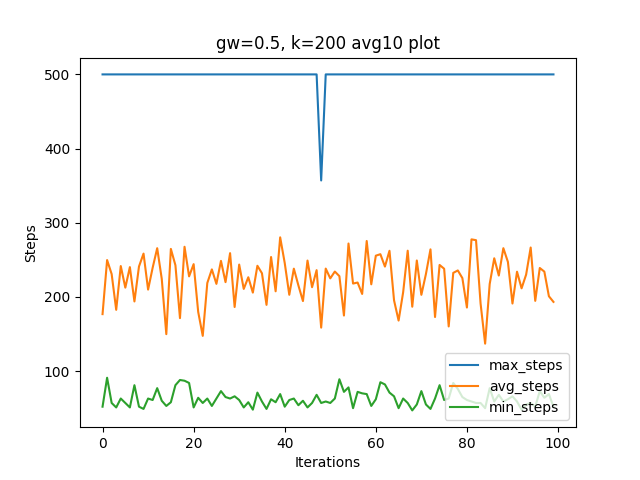
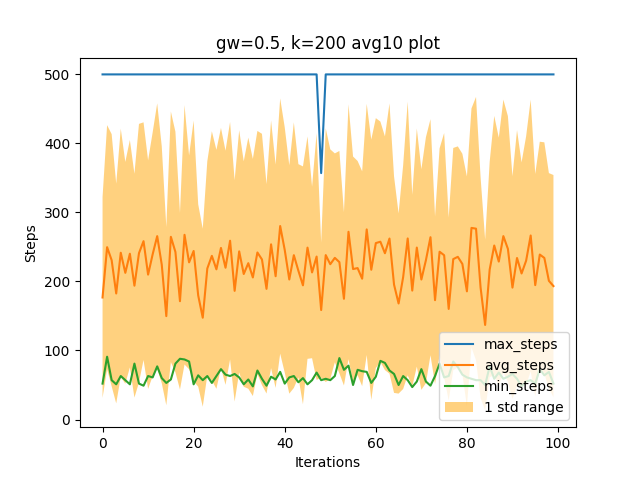
Found super300 results

diff --git a/genericClients/Mass_testing_client.py b/genericClients/Mass_testing_client.py
@@ -6,56 +6,40 @@ import helper.plotHelper as plotHelper
 import time
 import genericClients.kMeansClient as kMeansClient
 
-SEED_COUNT = 10
+SEED_COUNT = 30
 
 
-GAUSSIANS = [0.05, 0.1, 0.2, 0.3, 0.4, 0.5, 0.6, 0.8, 1]
+GAUSSIANS = [0.515, 0.535, 0.55, 0.565, 0.58]
+GAUSSIANS = [0.55]
 
-K_VALUES = [20, 35, 50, 70, 100, 150, 200]
+K_VALUES = [200, 250, 300, 350, 400]
+K_VALUES = [250]
 
 EXPLORATION_RATES = [0.1]
-#gw0.5-200
+
+
+
+RUN_KMEANS_UNWEIGHTED = True
+RUN_BASIC = True
+RUN_KMEANS_WEIGHTED = True
+RUN_KMEANS_VECTOR = False
+#gw0.55-250
 
 def run_program_with_different_seeds(plot_name, plot_title, seed_count=3,
                 discount_factor=kMeansClient.DISCOUNT_FACTOR, gaussian_width=kMeansClient.GAUSSIAN_WIDTH,
                 exploration_rate=kMeansClient.EXPLORATION_RATE, standard_episodes=kMeansClient.STANDARD_RUNNING_LENGTH,
-                kmeans_episodes=kMeansClient.KMEANS_RUNNING_LENGTH, kmeans_type=kMeansClient.KMEANS_TYPE, render_mode=kMeansClient.RENDER_MODE,
-                game_mode=kMeansClient.GAME_MODE, k=kMeansClient.K_MEANS_K, save_plot=True):
+                kmeans_episodes=kMeansClient.KMEANS_RUNNING_LENGTH, weighted_kmeans=True, render_mode=kMeansClient.RENDER_MODE,
+                game_mode=kMeansClient.GAME_MODE, k=kMeansClient.K_MEANS_K, save_plot=True, ignore_kmeans=False):
     datas = []
     for seed in range(seed_count):
         data = kMeansClient.run_program(seed=seed, discount_factor=discount_factor, gaussian_width=gaussian_width,
                 exploration_rate=exploration_rate, standard_episodes=standard_episodes,
-                kmeans_episodes=kmeans_episodes, kmeans_type=kmeans_type, render_mode=render_mode,
-                game_mode=game_mode, k=k, save_plot=False)
+                kmeans_episodes=kmeans_episodes, weighted_kmeans=weighted_kmeans, render_mode=render_mode,
+                game_mode=game_mode, k=k, save_plot=False, ignore_kmeans=ignore_kmeans)
         datas.append(data)
     datas = np.asarray(datas)
-    '''
-    bucket_data = plotHelper.average_every_n(datas, list_of_list=True, n=5)
-    avg_reward = plotHelper.average_of_diff_seeds(bucket_data)
-    error_bounds = plotHelper.get_upper_lower_error_bounds(bucket_data, avg_reward)
-    
-    
-    x = np.arange(0, len(data), 5)
-
-    #avg_reward = np.ones_like(avg_reward)*50
-    #error_bounds = [avg_reward - avg_reward*0.5, avg_reward*2 - avg_reward]
-
-    plt.errorbar(x, avg_reward, yerr=error_bounds, fmt='-o')
-    '''
-
-    avg_data, max_data, min_data = plotHelper.average_max_min_diagrams(datas)
-
-    plt.plot(max_data, label='max_steps')
-    plt.plot(avg_data, label='avg_steps')
-    plt.plot(min_data, label='min_steps')
-    plt.xlabel("Iterations")
-    plt.ylabel("Steps")
-    plt.legend(loc="lower right")
-    plt.title(plot_title)
-    plt.savefig(plot_name)
-    plt.show()
-    plt.clf()
-
+    plotHelper.plot_with_max_min_mean_std(datas, plot_name, plot_title)
+    return datas
 
 
 def run_gaussian_k():
@@ -64,20 +48,64 @@ def run_gaussian_k():
         start = time.time()
         for k in K_VALUES:
             start_2 = time.time()
+            labels = []
+            datas_list = []
+            if RUN_KMEANS_UNWEIGHTED:
+                path = f"mplots\\generic\\{kMeansClient.GAME_MODE}\\{gaussian_width}g\\{k}k"
+                fileHelper.createDirIfNotExist(path)
+                name = path + f"\\{SEED_COUNT}seed__{kMeansClient.STANDARD_RUNNING_LENGTH}_then_{kMeansClient.KMEANS_RUNNING_LENGTH}__unweighted_plot.png"
 
-            path = f"mplots\\generic\\{kMeansClient.GAME_MODE}\\{gaussian_width}g\\{k}k"
-            fileHelper.createDirIfNotExist(path)
-            name = path + f"\\{SEED_COUNT}seed__{kMeansClient.STANDARD_RUNNING_LENGTH}_then_{kMeansClient.KMEANS_RUNNING_LENGTH}_plot.png"
+                title = f"gw={gaussian_width}, k={k} avg{SEED_COUNT} unweighted-kmeans plot"
+                datas = run_program_with_different_seeds(name, title, seed_count=SEED_COUNT, gaussian_width=gaussian_width, k=k, weighted_kmeans=False)
+                datas_list.append(datas)
+                labels.append("unweighted")
 
-            title = f"gw={gaussian_width}, k={k} avg{SEED_COUNT} plot"
-            run_program_with_different_seeds(name, title, seed_count=SEED_COUNT, gaussian_width=gaussian_width, k=k)
+            if RUN_KMEANS_WEIGHTED:
+                path = f"mplots\\generic\\{kMeansClient.GAME_MODE}\\{gaussian_width}g\\{k}k"
+                fileHelper.createDirIfNotExist(path)
+                name = path + f"\\{SEED_COUNT}seed__{kMeansClient.STANDARD_RUNNING_LENGTH}_then_{kMeansClient.KMEANS_RUNNING_LENGTH}__weighted_plot.png"
 
-            end_2 =time.time()
-            print(f"\n\n{gaussian_width=}, {k=}: time:{end_2-start_2}")
+                title = f"gw={gaussian_width}, k={k} avg{SEED_COUNT} weighted-kmeans plot"
+                datas = run_program_with_different_seeds(name, title, seed_count=SEED_COUNT,
+                                                         gaussian_width=gaussian_width, k=k, weighted_kmeans=True)
+                datas_list.append(datas)
+                labels.append("weighted")
+
+            if RUN_BASIC and k == K_VALUES[0]:
+                path = f"mplots\\generic\\{kMeansClient.GAME_MODE}\\{gaussian_width}g\\basic"
+                fileHelper.createDirIfNotExist(path)
+                name = path + f"\\{SEED_COUNT}seed__{kMeansClient.STANDARD_RUNNING_LENGTH}_then_{kMeansClient.KMEANS_RUNNING_LENGTH}__weighted_plot.png"
+
+                title = f"gw={gaussian_width}, avg{SEED_COUNT} nearest neighbor plot"
+                basic_datas = run_program_with_different_seeds(name, title, seed_count=SEED_COUNT, gaussian_width=gaussian_width, k=k, weighted_kmeans=False, ignore_kmeans=True)
+                datas_list.append(basic_datas)
+                labels.append("basic")
+            else:
+                datas_list.append(basic_datas)
+                labels.append("basic")
+
+            end_2 = time.time()
+            print(f"\n\n{gaussian_width=}, {k=}: time:{end_2 - start_2}")
+            if len(labels) > 1:
+                path = f"mplots\\generic\\{kMeansClient.GAME_MODE}\\aggregate\\{gaussian_width}g\\{k}k"
+                fileHelper.createDirIfNotExist(path)
+
+                types =  f"{'_weighted' if RUN_KMEANS_WEIGHTED else ''}{'_unweighted' if RUN_KMEANS_UNWEIGHTED else ''}{'_vector' if RUN_KMEANS_VECTOR else ''}{'_basic' if RUN_BASIC else ''}"
+                name = path + f"\\{SEED_COUNT}seed__{kMeansClient.STANDARD_RUNNING_LENGTH}_then_{kMeansClient.KMEANS_RUNNING_LENGTH}" \
+                              f"{types}.png"
+                title = f"gw={gaussian_width}, k={k} avg{SEED_COUNT}{types} plot"
+
+                plotHelper.plot_multiple_graph_types(datas_list, labels, name, title, show_std=False)
+                name = path + f"\\{SEED_COUNT}seed__{kMeansClient.STANDARD_RUNNING_LENGTH}_then_{kMeansClient.KMEANS_RUNNING_LENGTH}" \
+                              f"{types}_std.png"
+                plotHelper.plot_multiple_graph_types(datas_list, labels, name, title, show_std=True)
             time.sleep(2)
         end = time.time()
         print(f"\n\n\n\n{gaussian_width=}: time:{end - start}")
         time.sleep(5)
 
 if __name__ == '__main__':
+    total_start = time.time()
     run_gaussian_k()
+    total_end = time.time()
+    print(f"\n\n\n\nComplete program time: {total_end-total_start}")

diff --git a/classes/genericBasic.py b/classes/genericBasic.py
@@ -10,16 +10,19 @@ from matplotlib.ticker import NullFormatter
 
 
 class GenericModel:
-    def __init__(self, env, gaussian_width, exploration_rate, kmeans_type=STANDARD, split_kmeans=False, K=20, no_learning=True):
+    def __init__(self, env, gaussian_width, exploration_rate, weighted_kmeans=True,
+                 use_vectors=False, split_kmeans=False, K=20, no_learning=True, use_kmeans=True):
         self.gaussian_width = gaussian_width
         self.action_space_size = env.action_space.n
         self.observation_space_size = env.observation_space.shape[0]
         self.exploration_rate = exploration_rate
-        self.kmeans_type = kmeans_type
+        self.weighted_kmeans = weighted_kmeans
         self.split_kmeans = split_kmeans
+        self.use_vectors = use_vectors
         self.K = K
         self.no_learning = no_learning
         self.delta = 10**-8
+        self.use_kmeans = use_kmeans
 
         self.states: np.ndarray = np.empty((0, env.observation_space.shape[0]))  # States are stored here
         self.rewards: np.ndarray = np.empty(0)  # Value for each state index
@@ -119,12 +122,16 @@ class GenericModel:
 
     def calc_standard_kmeans(self, run_tsne=False):
         self.num_states_when_ran_kmeans= len(self.states)
-        self.weights = self.get_kmeans_weights()
+        if self.weighted_kmeans:
+            self.weights = self.get_kmeans_weights()
+        else:
+            self.weights = np.ones_like(self.rewards)
         self.scaler = preprocessing.StandardScaler().fit(self.states)
         self.standardized_states = self.scaler.transform(self.states)
         self.kmeans_centers = KMeans(n_clusters=self.K, random_state=0, n_init='auto').fit(self.standardized_states, sample_weight=self.weights).cluster_centers_
         if run_tsne:
             self.tsne()
+        self.calc_kmeans_center_vector(self.kmeans_centers)
         self.kmeans_action_reward_list, self.kmeans_action_weight_list = self.calc_kmeans_center_rewards(self.kmeans_centers)
 
     def get_kmeans_weights(self):
@@ -144,39 +151,6 @@ class GenericModel:
                 dist = standardized_state - self.kmeans_centers
                 weight = np.exp(-np.sum(np.square(dist), axis=1) / self.gaussian_width) + self.delta
                 weight_sums[action] = np.sum(weight)
-                if weight_sums[action] == 0:
-                    self.tsne(after_kmeans=True)
-                    print("Kmeans centers: \n(husk at de er basert på punkter standardiserte så snitt=0 og standardavik=1)")
-                    print(self.kmeans_centers)
-                    print(self.states[:, 0])
-                    print(np.max(self.states[:, 0]))
-                    print("Current state: (Standardisert)")
-                    print(standardized_state)
-                    print("\n\n")
-                    print("Raw states:")
-                    print(self.states)
-                    print("Raw current state")
-                    print(state)
-                    print(f"{len(self.states)=}")
-                    input()
-                    print("test")
-                    print()
-                    print(dist)
-                    print()
-                    print(np.square(dist))
-                    print()
-                    print(-np.sum(np.square(dist), axis=1))
-                    print()
-                    print(-np.sum(np.square(dist), axis=1) / self.gaussian_width)
-                    print()
-                    print(np.exp(-np.sum(np.square(dist), axis=1)))
-                    print(self.gaussian_width)
-                    print(np.exp(-np.sum(np.square(dist), axis=1)[0]/0.4))
-                    print()
-                    print(np.exp(-np.sum(np.square(dist), axis=1) / self.gaussian_width))
-                    print()
-                    print(np.sum(weight))
-                    input()
                 action_rewards[action] = np.sum(weight * self.kmeans_action_reward_list[action]) / weight_sums[action]
                 #action_rewards[action] = np.sum(weight * self.rewards[self.state_action_transitions_to[action]]) / weight_sums[action]
 
@@ -220,9 +194,11 @@ class GenericModel:
                     dist = kmean - self.standardized_states[self.state_action_transitions_from[action]]
                     weight = np.exp(-np.sum(np.square(dist), axis=1) / self.gaussian_width)
                     weight_sums[action] = np.sum(weight)
-                    action_vectors[action] = np.sum(weight * self.states[self.state_action_transitions_to[action]], axis=0) / \
-                                             weight_sums[action]
+                    vectors = self.states[self.state_action_transitions_to[action]] - self.states[self.state_action_transitions_from[action]]
+                    action_vectors[action] = vectors.transpose().dot(weight) / weight_sums[action]
             action_vector_list.append(action_vectors)
             weight_sums_list.append(weight_sums)
-
+        print(action_vectors)
+        print("\n\n\n")
+        print(action_vector_list)
         return action_vector_list, weight_sums_list

diff --git a/helper/plotHelper.py b/helper/plotHelper.py
@@ -1,5 +1,8 @@
 import numpy as np
+import matplotlib.pyplot as plt
 
+
+color_list = ['blue', 'red', 'green', 'yellow', 'pink', 'orange', 'purple', 'cyan']
 
 # https://stackoverflow.com/questions/11352047/finding-moving-average-from-data-points-in-python
 def rolling_average(data, window_width):
@@ -22,24 +25,59 @@ def average_every_n(data, list_of_list=False, n=5):
     return out_list
 
 def average_of_diff_seeds(data):
-    np_data = np.asarray(data)
-    avg_data = np.mean(np_data, axis=0)
+    avg_data = np.mean(data, axis=0)
     return avg_data
 
 def get_upper_lower_error_bounds(data, avg_reward):
-    np_data = np.asarray(data)
-    max_data = np.max(np_data, axis=0) - avg_reward
-    min_data = avg_reward - np.min(np_data, axis=0)
+    max_data = np.max(data, axis=0) - avg_reward
+    min_data = avg_reward - np.min(data, axis=0)
     return [min_data, max_data]
 
 def average_max_min_diagrams(data):
-    np_data = np.asarray(data)
-    avg_data = np.mean(np_data, axis=0)
-    max_data = np.max(np_data, axis=0)
-    min_data = np.min(np_data, axis=0)
+    avg_data = np.mean(data, axis=0)
+    max_data = np.max(data, axis=0)
+    min_data = np.min(data, axis=0)
     return avg_data, max_data, min_data
 
 
+def get_std_deviation(datas):
+    sigma1 = datas.std(axis=0)
+    return sigma1
+
+def plot_with_max_min_mean_std(datas, plot_name, plot_title):
+    avg_data, max_data, min_data = average_max_min_diagrams(datas)
+    avg_num = np.round(np.mean(avg_data), 2)
+    std = datas.std(axis=0)
+    plt.plot(max_data, label='max_steps')
+    plt.plot(avg_data, label='avg_steps')
+    plt.plot(min_data, label='min_steps')
+    plt.fill_between(range(len(std)), avg_data - std, avg_data + std, facecolor='orange', alpha=0.5, label='std')
+    plt.xlabel("Iterations")
+    plt.ylabel("Steps")
+    plt.legend(loc="lower right")
+    plt.title(plot_title + f", {avg_num=}")
+    plt.savefig(plot_name)
+    plt.show()
+    plt.clf()
+    print()
 
 
 
+def plot_multiple_graph_types(datas_list, labels, plot_name, plot_title, show_std=False):
+    if len(labels) <= 1 or len(labels) != len(datas_list) or len(labels) > 8:
+        return
+    for i in range(len(labels)):
+        avg_data, max_data, min_data = average_max_min_diagrams(datas_list[i])
+        plt.plot(avg_data, label=labels[i] + ' mean', color=color_list[i])
+        if show_std:
+            std = datas_list[i].std(axis=0)
+            plt.fill_between(range(len(std)), avg_data - std, avg_data + std, facecolor=color_list[i], alpha=0.5,
+                             label=labels[i] + ' std')
+    plt.xlabel("Iterations")
+    plt.ylabel("Steps")
+    plt.legend(loc="lower right")
+    plt.title(plot_title)
+    plt.savefig(plot_name)
+    plt.show()
+    plt.clf()
+    print()

diff --git a/genericClients/kMeansClient.py b/genericClients/kMeansClient.py
@@ -30,20 +30,20 @@ KMEANS_RUNNING_LENGTH = 100
 KMEANS_TYPE = STANDARD
 
 
-path = f"mplots\\generic\\{GAME_MODE}\\{KMEANS_TYPE}-kmeans\\{GAUSSIAN_WIDTH}g"
+path = f"mplots\\generic\\{GAME_MODE}\\single\\{GAUSSIAN_WIDTH}g"
 
 
 
 def run_program(seed=SEED, discount_factor=DISCOUNT_FACTOR, gaussian_width=GAUSSIAN_WIDTH,
                 exploration_rate=EXPLORATION_RATE, standard_episodes=STANDARD_RUNNING_LENGTH,
-                kmeans_episodes=KMEANS_RUNNING_LENGTH, kmeans_type=KMEANS_TYPE, render_mode=RENDER_MODE,
-                game_mode=GAME_MODE, k=K_MEANS_K, save_plot=True):
+                kmeans_episodes=KMEANS_RUNNING_LENGTH, weighted_kmeans=True, render_mode=RENDER_MODE,
+                game_mode=GAME_MODE, k=K_MEANS_K, save_plot=True, ignore_kmeans=False):
 
     env = gymnasium.make(game_mode, render_mode=render_mode)
     env.action_space.seed(seed)
     np.random.seed(seed)
 
-    model = GenericModel(env, gaussian_width, exploration_rate, K=k)
+    model = GenericModel(env, gaussian_width, exploration_rate, K=k, weighted_kmeans=weighted_kmeans)
 
     rewards = 0.  # Accumulative episode rewards
     actions = []  # Episode actions
@@ -59,7 +59,7 @@ def run_program(seed=SEED, discount_factor=DISCOUNT_FACTOR, gaussian_width=GAUSS
                     env.close()
                     exit()
 
-        if episodes < standard_episodes:
+        if episodes < standard_episodes or ignore_kmeans:
             action = model.get_action_without_kmeans(state)
         else:
             #print("REached")
@@ -72,7 +72,7 @@ def run_program(seed=SEED, discount_factor=DISCOUNT_FACTOR, gaussian_width=GAUSS
         rewards += float(reward)
 
         if terminated or truncated:
-            print(f"rewards: {rewards}")
+            print(f"{seed=}, {episodes=}, rewards: {rewards}")
             if episodes >= standard_episodes:
                 data.append(rewards)
             for i, state in enumerate(states):
@@ -89,7 +89,7 @@ def run_program(seed=SEED, discount_factor=DISCOUNT_FACTOR, gaussian_width=GAUSS
             state, info = env.reset()
             states.append(state)
             episodes += 1
-            if episodes == standard_episodes:
+            if episodes == standard_episodes and not ignore_kmeans:
                 print("Calculating kmeans centers...")
                 model.calc_standard_kmeans()
                 print("Finished calculating kmeans centers")
